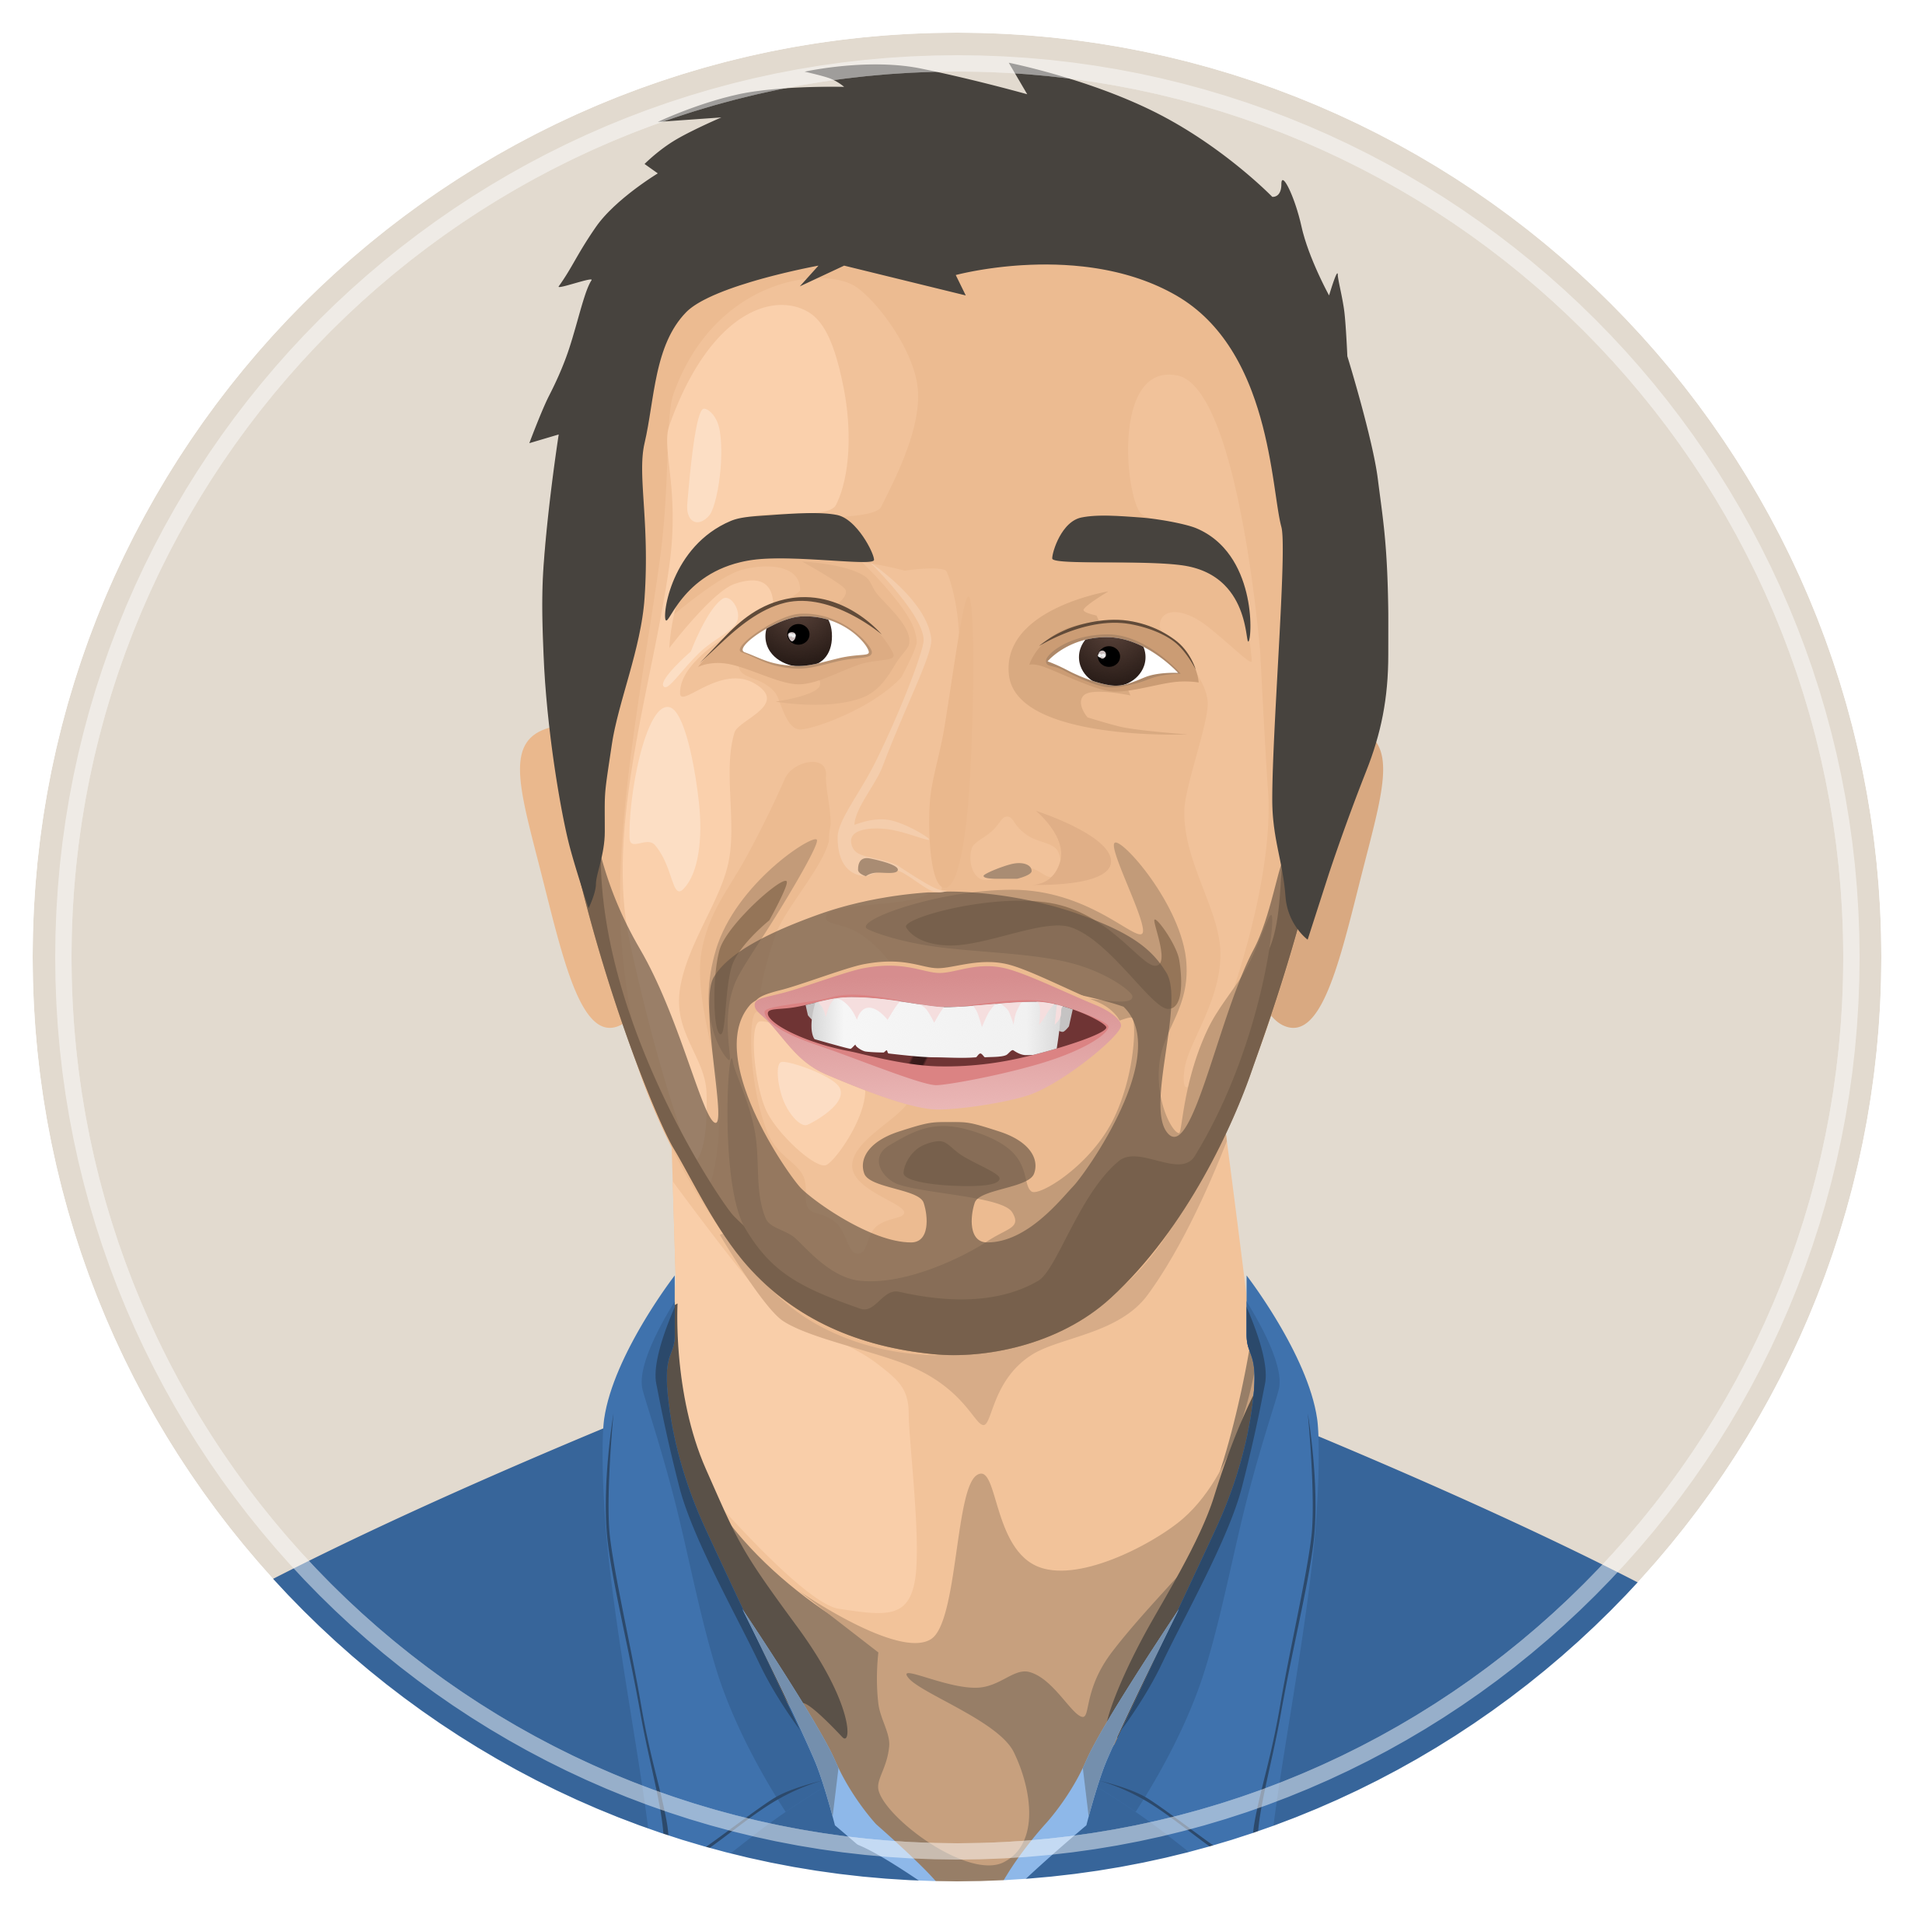
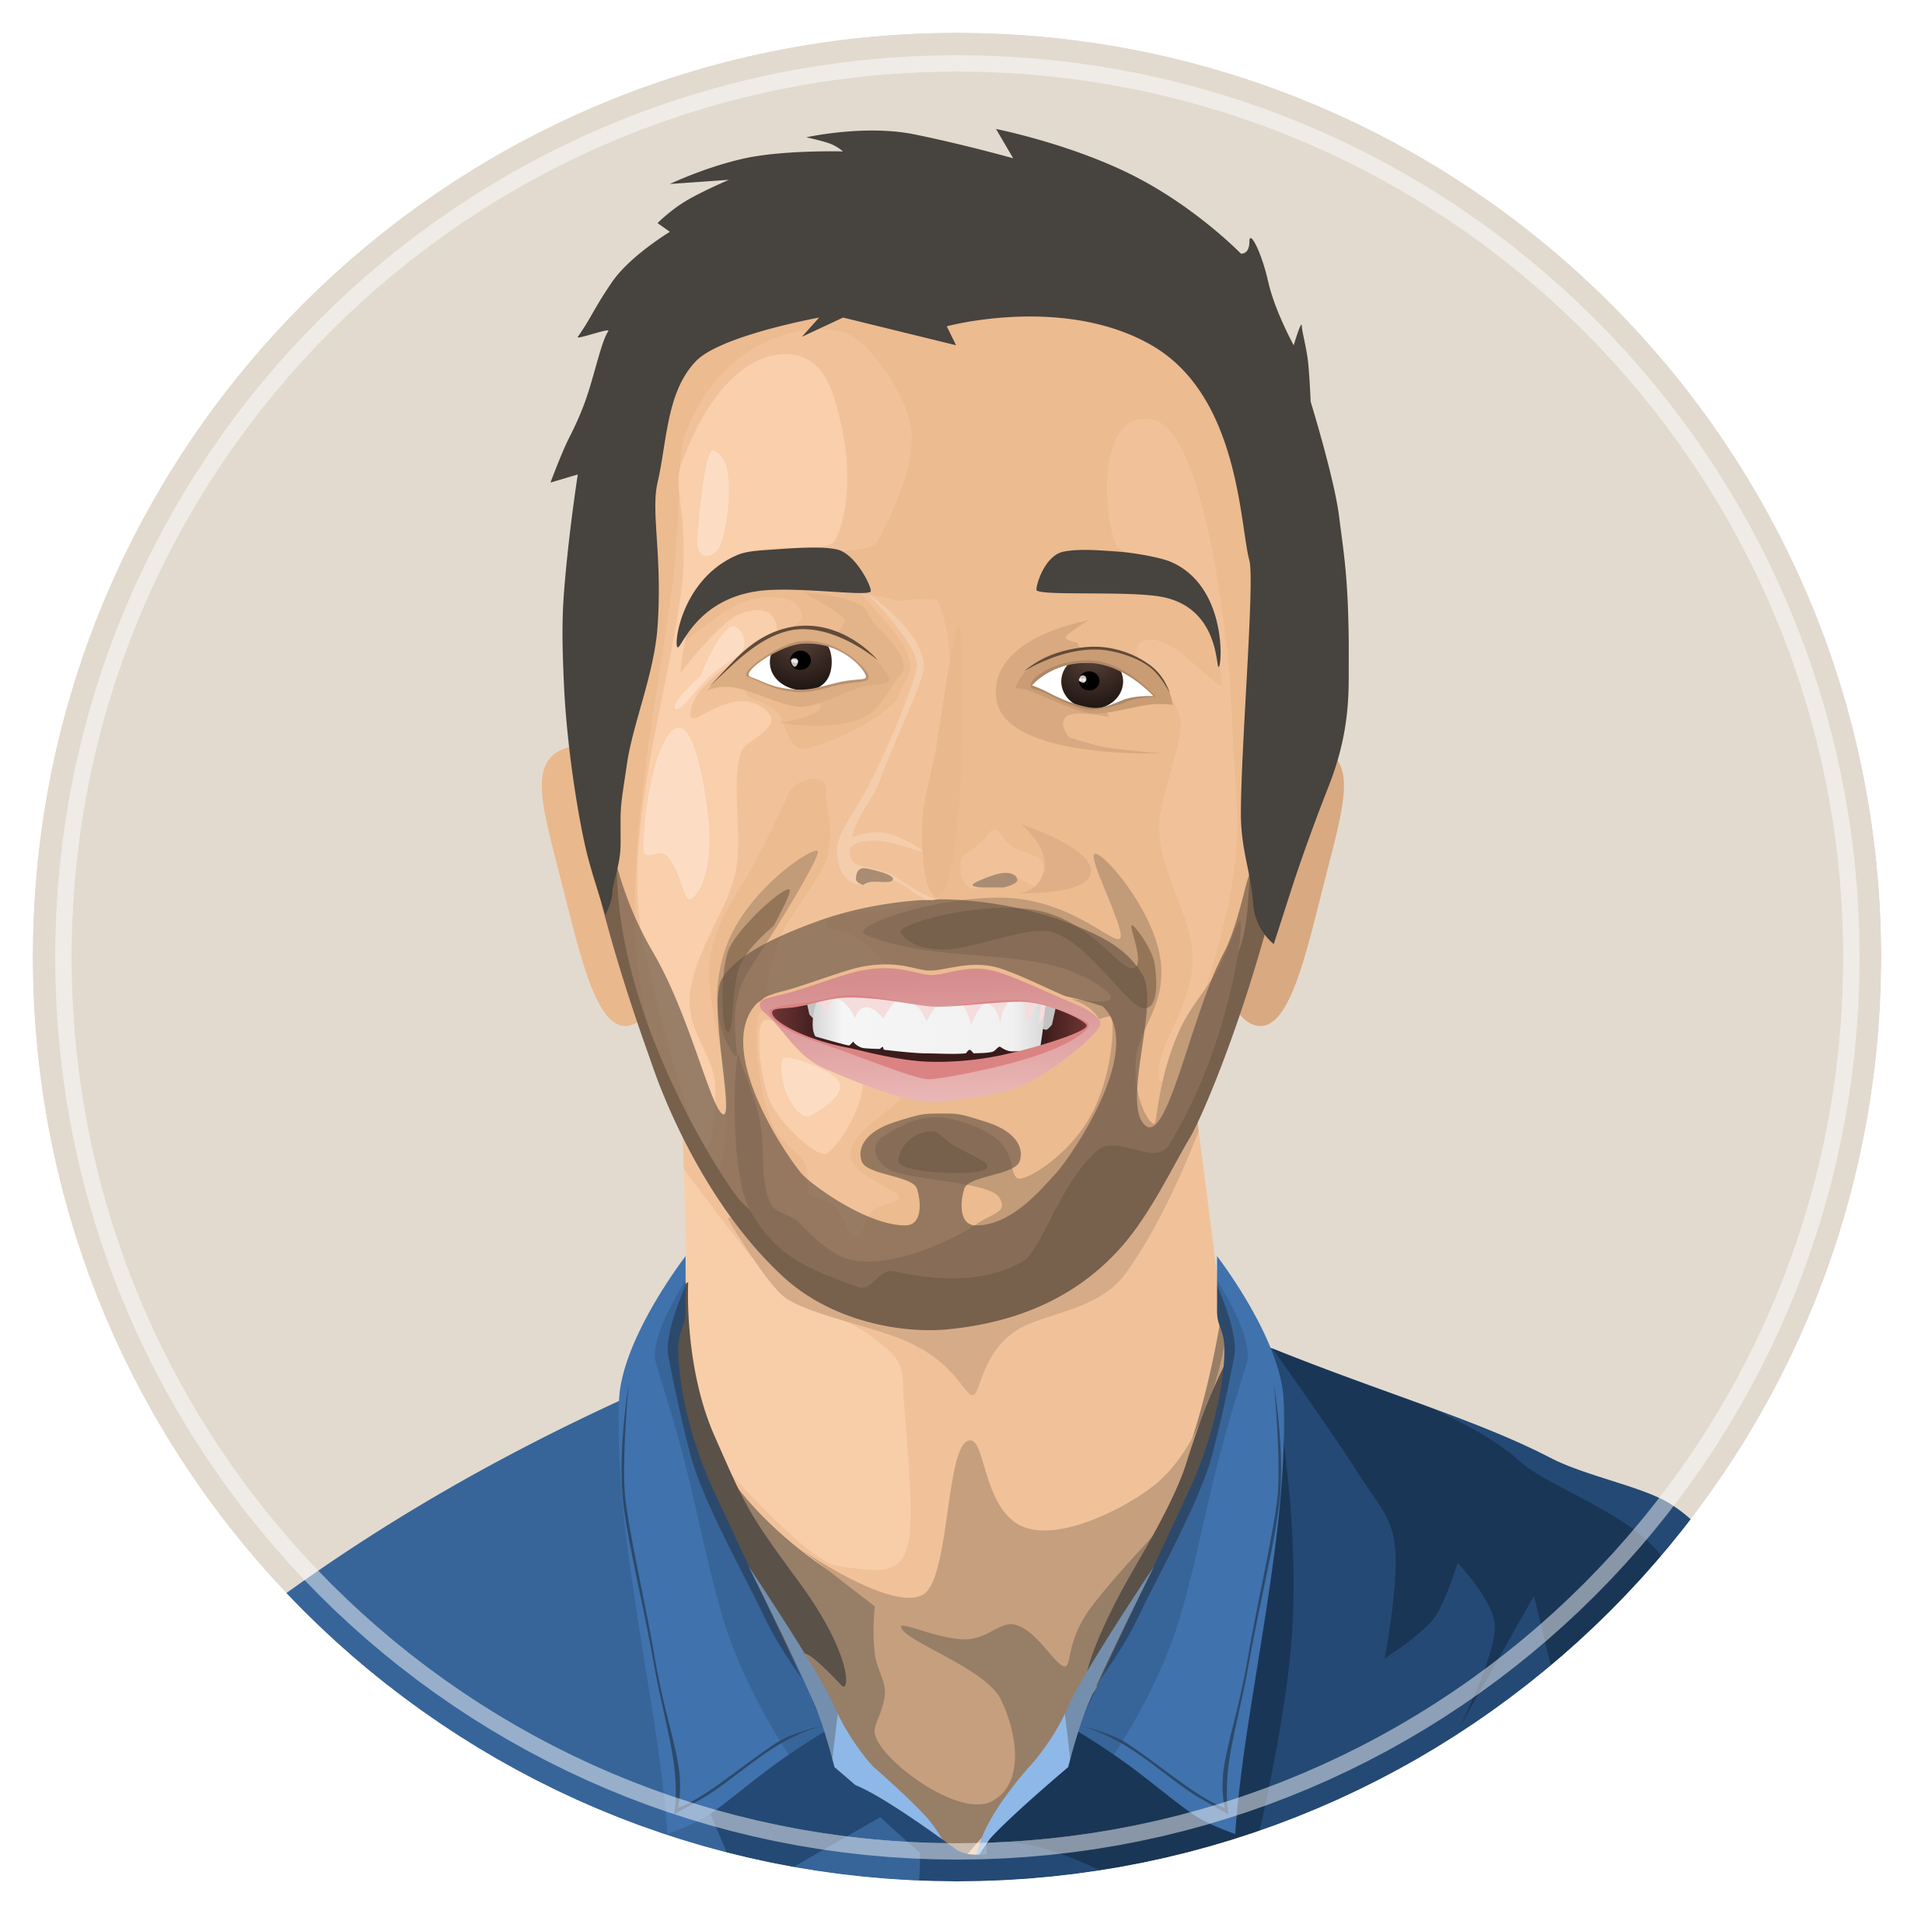
motif photo profil

Changed region(s): [[0.247, 0.0309, 0.8952, 0.9878], [0.2161, 0.7717, 0.247, 0.8026], [0.1543, 0.8026, 0.1852, 0.8335]]

diff --git a/src/app/style/layout/_about.scss b/src/app/style/layout/_about.scss
@@ -17,12 +17,13 @@
 
   #profilePic {
     min-height: 200px;
-    background: url("../../images/profilePic.png") no-repeat center;
+    background: url("../../images/profilePic2.png") no-repeat center;
     background-size: contain;
+    transition: all ease 0.2s;
   }
 
   #profilePic:hover {
-    background: url("../../images/profilePic2.png") no-repeat center;
+    background: url("../../images/profilePic.png") no-repeat center;
     background-size: contain;
   }
 
